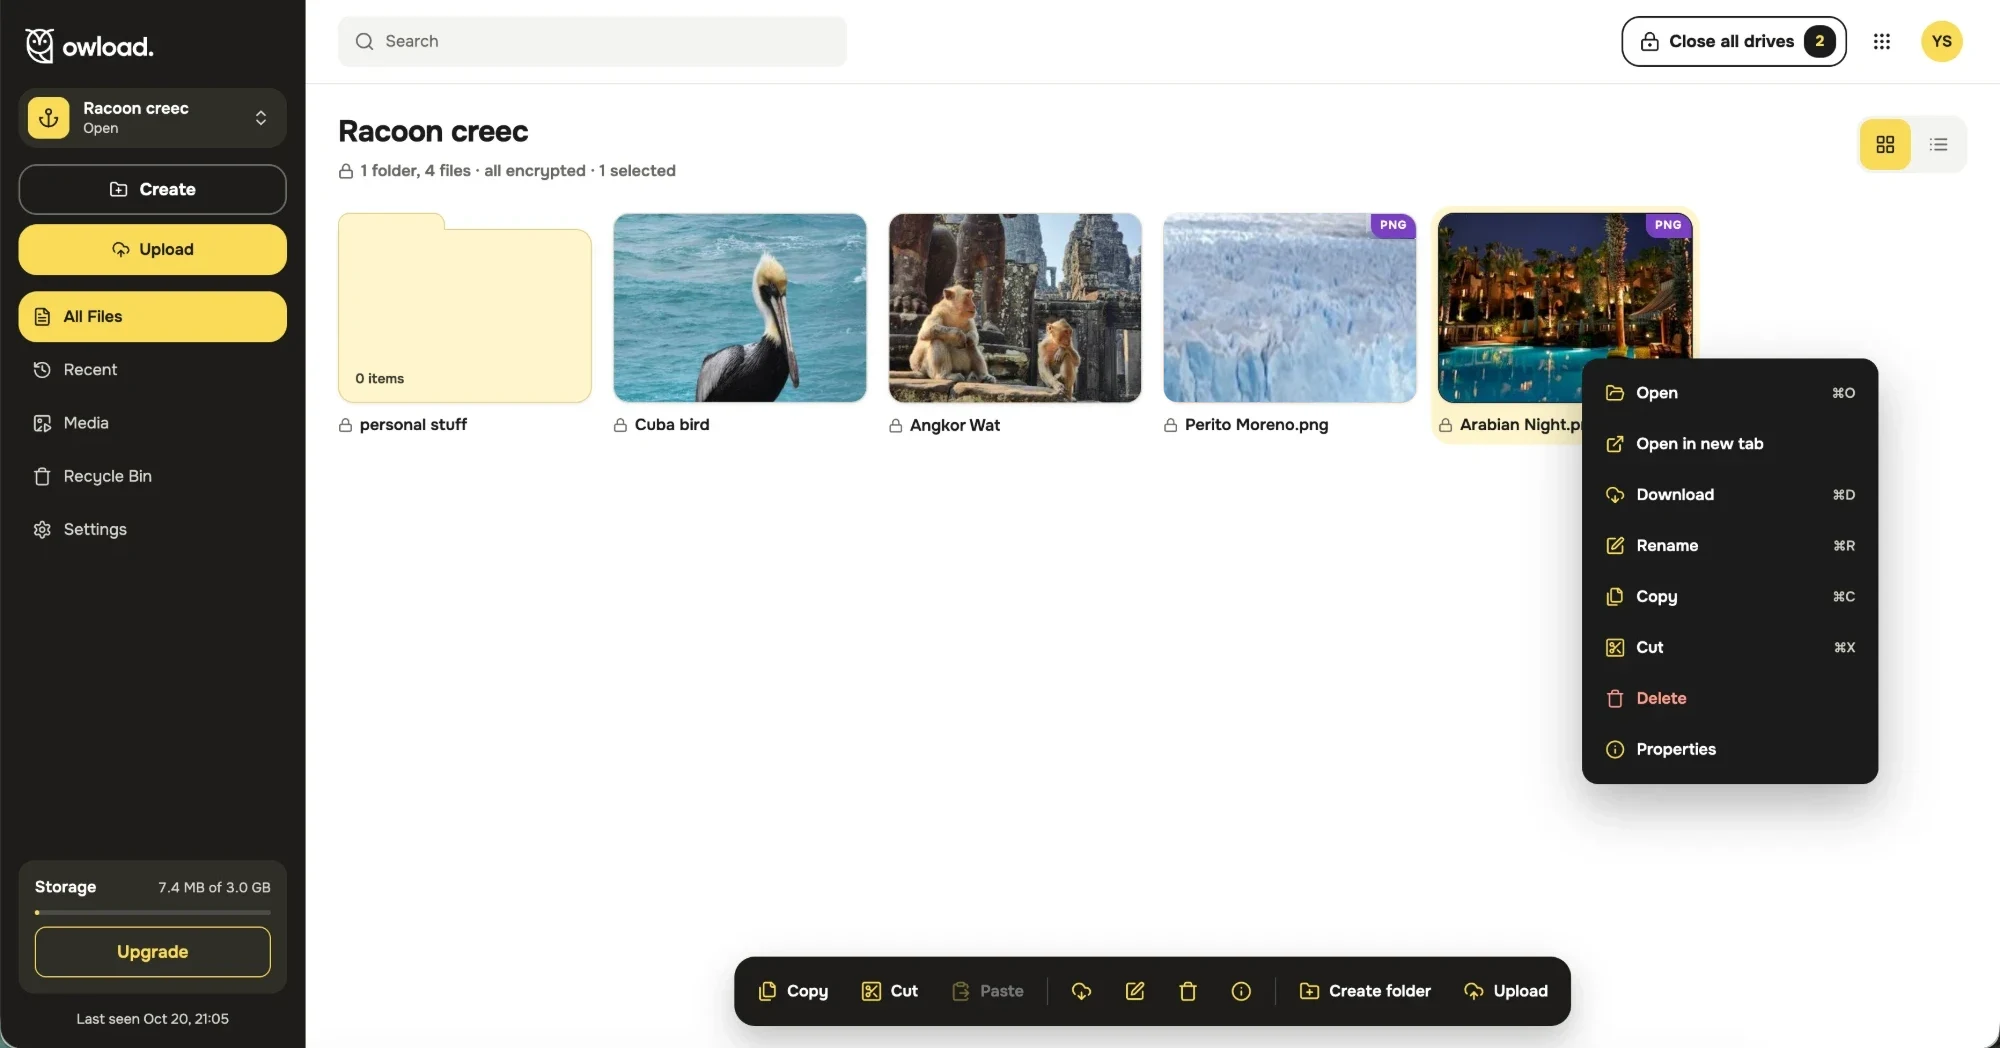
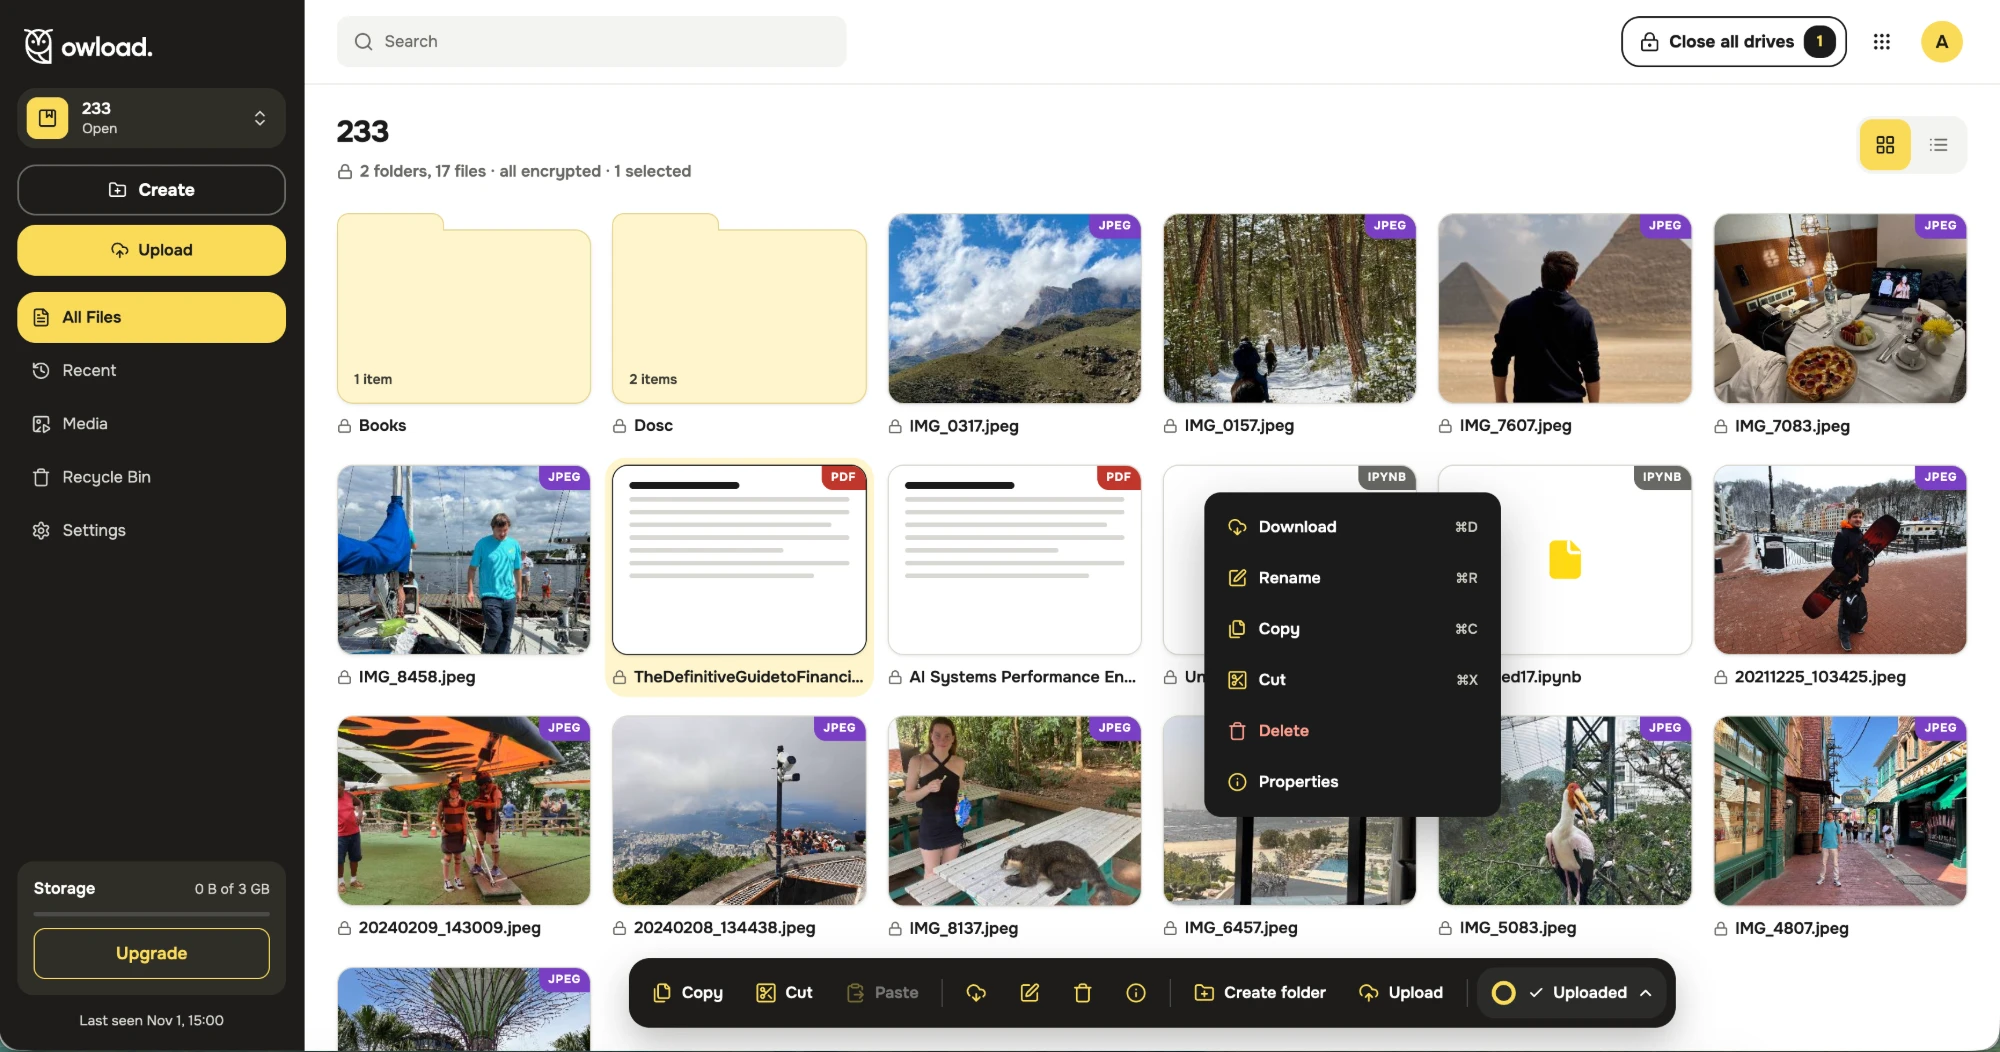
Figures: the anatomy of a drive, adding files, the steps of an upload, kinds of access, roles and public links

diff --git a/src/figures.ts b/src/figures.ts
@@ -46,16 +46,20 @@ export const FIGURES: Record<string, FigureEntry> = {
   │ │ files · folders · history   (all encrypted) │   │
   │ └─────────────────────────────────────────────┘   │
   └───────────────────────────────────────────────────┘`,
+    src: "/figures/anatomy-of-a-drive.webp",
+    alt: "A drive called Family photos, drawn as a card. Its title is visible to the server. The password is never stored anywhere, not even encrypted: only you know it. Storage, a main one and up to two copies, and People, each with a role of reader, writer, admin or owner, are visible to the server. Files and folders, with their contents and names, and History, the log of changes, are encrypted on your device, so the server sees only bytes.",
   },
 
   "upload-two-steps": {
-    caption: "An upload has two steps, and both are on your device's side of the line until the data is encrypted.",
+    caption: "An upload has two steps: the file is encrypted on your device, and only encrypted blocks leave it.",
     brief:
       "A horizontal flow: File → '1 Encrypt (on your device)' → '2 Upload (1 MiB blocks, several at a time)' → Storage. Under it, a mock of the transfers panel with two progress bars, one per step. A small side branch from the file: 'preview picture made at the same time (never fails the upload)'.",
     sketch: `  file ─► [1 Encrypt] ─► [2 Upload  ▪▪▪▪ 1 MiB blocks] ─► storage
               │
               └─ preview picture (optional)
   transfers panel:  Encrypt ████████  Upload ████░░░░`,
+    src: "/figures/upload-two-steps.webp",
+    alt: "On your device, beach.jpg, 5 MiB and plain, goes through step 1, Encrypt, done on the device before anything leaves it, and step 2, Upload, in blocks of 1 MiB, several at a time: two sent, two in flight, one waiting. A preview picture is made at the same time; it is optional, and if it fails the upload goes on. Only encrypted blocks cross the line to Storage. Below, the Transfers panel shows Encrypt done and Upload at 2 of 5 blocks.",
   },
 
   "three-kinds-of-access": {
@@ -66,6 +70,8 @@ export const FIGURES: Record<string, FigureEntry> = {
    only you         you + invited       anyone with the link
                     people, with roles  (read only, no account)
    ───────── the drive's password is needed in all three ─────────`,
+    src: "/figures/three-kinds-of-access.webp",
+    alt: "Three cards side by side, each saying who can open a drive. Private: only you. Shared: you and the people you invite, each with a role of owner, admin, writer or reader. Public: anyone with the link, read only, with no account needed. Each card ends in the same badge, Password needed: the drive's password is needed in all three.",
   },
 
   "roles": {
@@ -79,6 +85,8 @@ export const FIGURES: Record<string, FigureEntry> = {
    │ Reader │ │ add,   │ │ access   │
    │ view   │ │ change │
    └────────┘ └────────┘`,
+    src: "/figures/roles.webp",
+    alt: "Four steps rising from fewer rights to more. Reader can view and download. Writer adds adding, changing and deleting files. Admin adds managing people and access, and a note says that only the owner makes admins. Owner adds deleting the drive.",
   },
 
   "public-link-and-password": {
@@ -90,6 +98,8 @@ export const FIGURES: Record<string, FigureEntry> = {
                                               ▼
                                        files, decrypted locally
   link alone: nothing readable       password alone: nowhere to go`,
+    src: "/figures/public-link-and-password.webp",
+    alt: "Four steps. The owner copies the link and sends the password separately. In the visitor's browser, the visitor opens the link with no account and no sign-in; the page asks for the password, which is typed and used only in that browser and never sent to the server; the files appear, decrypted there. Two notes below: the link alone gives nothing readable, because it does not contain the password, and the password without the link opens nothing.",
   },
 
   "copies-of-a-drive": {
@@ -216,6 +226,9 @@ export const FIGURES: Record<string, FigureEntry> = {
     sketch: `  files grid                      transfers
   [pic] [pic] [doc]               photo.jpg   Encrypt ✓  Upload ███░░
                                   report.xlsx Encrypt ██░░░`,
+    src: "/figures/add-files.webp",
+    frame: true,
+    alt: "A drive open in the grid view, with the transfers panel over it, titled Uploading 9 files, Encrypted on this device, then uploaded. One file is at 95% of Encrypt and 39% of Upload, with a button to cancel it; four others are marked Uploaded, with a check on both steps. The panel has Add files and Clear finished. The toolbar at the bottom shows 9 files at 74%.",
   },
 
   "connect-own-s3-form": {
@@ -234,7 +247,7 @@ export const FIGURES: Record<string, FigureEntry> = {
     sketch: "",
     src: "/figures/app-files.webp",
     frame: true,
-    alt: "A drive called Racoon creek open in the grid view: a folder and four pictures, one of them selected with its menu open (Open, Open in new tab, Download, Rename, Copy, Cut, Delete, Properties). A toolbar at the bottom has Copy, Cut, Paste, Create folder and Upload. The side panel lists All Files, Recent, Media, Recycle Bin and Settings, with the storage used against 3 GB.",
+    alt: "A drive open in the grid view: two folders and 17 files, among them photos and PDFs, each with a lock beside its name. One file is selected, with its menu open (Download, Rename, Copy, Cut, Delete, Properties). A toolbar at the bottom has Copy, Cut, Paste, Create folder and Upload. The side panel lists All Files, Recent, Media, Recycle Bin and Settings, with the storage used against 3 GB.",
   },
 
   "app-my-drives": {
